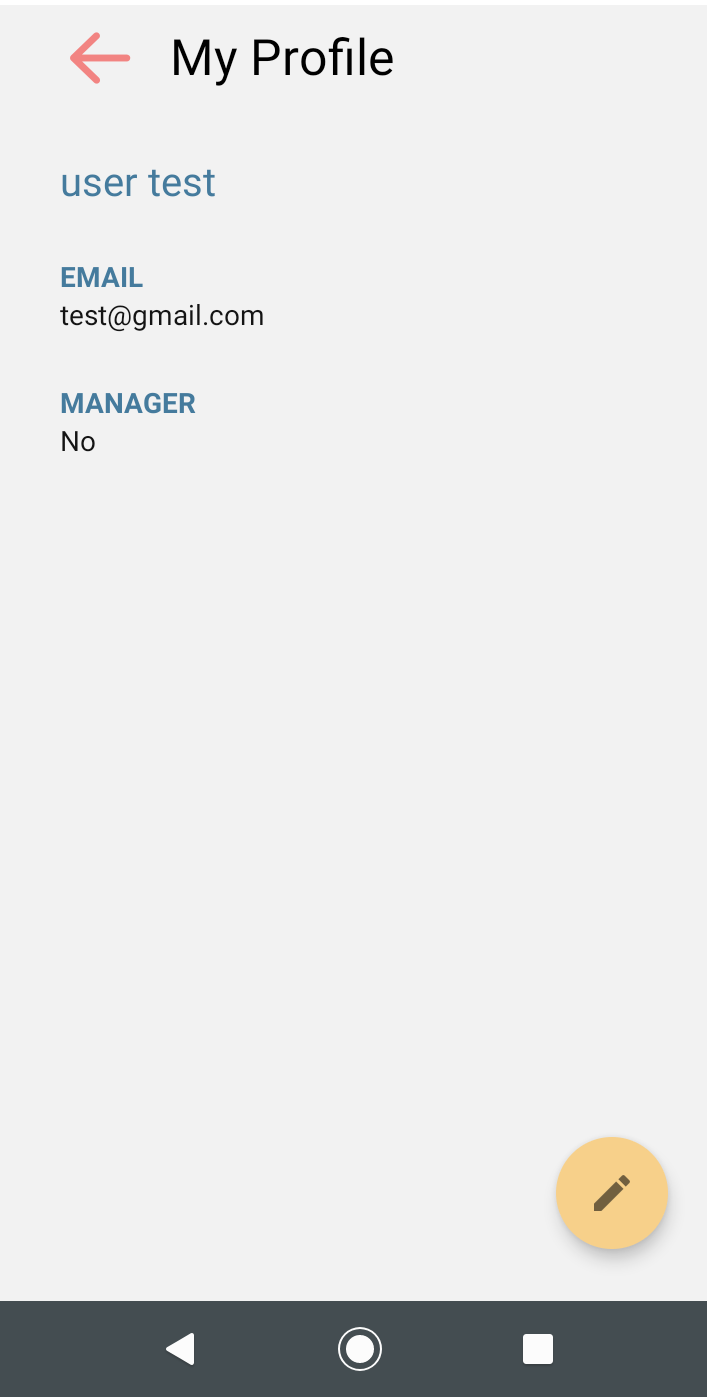
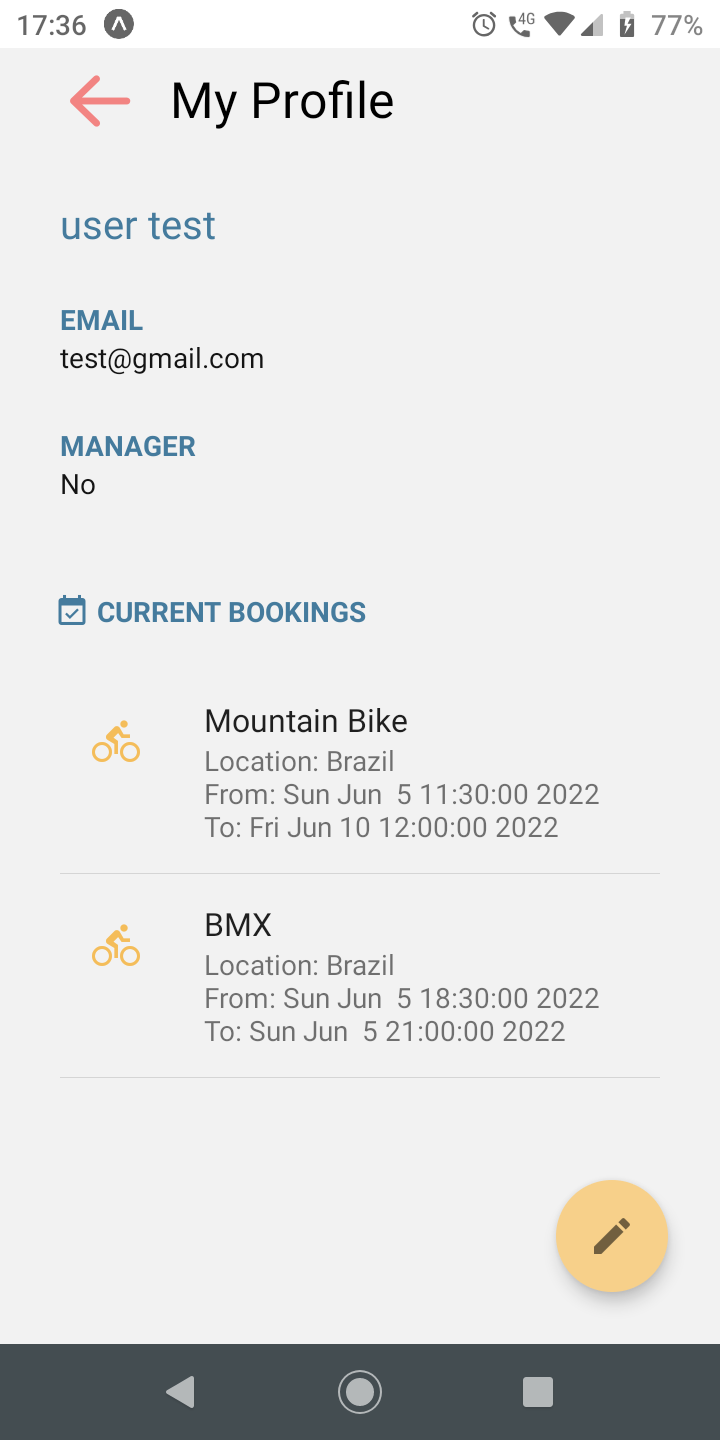
continuação da tela meu perfil - add current user bookings

diff --git a/bikeRentalMobile/screens/profile/profileScreen.tsx b/bikeRentalMobile/screens/profile/profileScreen.tsx
@@ -5,9 +5,10 @@ import { useSelector } from "react-redux";
 import Colors from "../../constants/Colors";
 import { defaultPadding } from "../../constants/Layout";
 import PageHeader from '../../common/pageHeader';
-import { FAB } from 'react-native-paper';
-import { StyleSheet } from 'react-native';
-
+import { FAB, List, Divider } from 'react-native-paper';
+import { StyleSheet, FlatList, ListRenderItem } from 'react-native';
+import { fetchUserReservations } from "../../services/api";
+import { MaterialCommunityIcons } from "@expo/vector-icons";
 
 function Perfil({ navigation }: RootStackScreenProps<"Perfil">): JSX.Element {
 
@@ -15,10 +16,45 @@ function Perfil({ navigation }: RootStackScreenProps<"Perfil">): JSX.Element {
     (state: { loggedUser: UserObject }) => state
   );
   const [user, setUser] = useState(loggedUser?.result);
+  const [userReservations, setUserReservations] = useState<IReservation[]>([]);
 
   useEffect(() => {
-    setUser(loggedUser?.result);
+    setUser(user);
+
+    if (user && user._id) {
+      fetchUserReservations(user._id).then((response) => {
+        console.log(response.data);
+        let data = response.data.filter(
+            x => new Date().getDate() >= new Date(x.startTimestamp).getDate() 
+            && new Date().getDate() <= new Date(x.endTimestamp).getDate()
+        );
+        setUserReservations(data);
+      });
+    }
+
   }, [loggedUser]);
+
+  const renderItem: ListRenderItem<IReservation> = ({ item }) => (
+    <>
+      <List.Item
+        title={item.bikeInfo.model}
+        descriptionNumberOfLines ={3}
+        description={
+        `Location: ${item.bikeInfo.location}\n` + 
+        `From: ${new Date(item.startTimestamp).toLocaleString('pt-br')}\n` + 
+        `To: ${new Date(item.endTimestamp).toLocaleString('pt-br')}`
+        }
+        left={(props) => (
+          <List.Icon
+            {...props}
+            color="#f4bd5a"
+            icon="bike"
+          />
+        )}
+      />
+    <Divider />
+    </>
+  );
 
   const handleGoToEditProfile = () => {
     navigation.navigate("EditProfile");
@@ -37,10 +73,21 @@ function Perfil({ navigation }: RootStackScreenProps<"Perfil">): JSX.Element {
       <StyledStrong>manager</StyledStrong>
       <StyledUserProp>{user.isManager ? 'Yes' : 'No'}</StyledUserProp>
 
+      <BookingsTitleContainer>
+        <MaterialCommunityIcons name="calendar-check" size={18} color="#457B9D" />
+        <StyledStrong> Current Bookings</StyledStrong>
+      </BookingsTitleContainer>
+
+      <FlatList
+        data={userReservations}
+        renderItem={renderItem}
+        keyExtractor={(reservation) => reservation._id}
+      />
+
       <FAB
-        style = {styles.fab}
-        icon = "pencil"
-        onPress= {handleGoToEditProfile}
+        style={styles.fab}
+        icon="pencil"
+        onPress={handleGoToEditProfile}
       />
 
     </StyledSelectedUser>
@@ -73,6 +120,16 @@ const StyledStrong = styled.Text`
 const StyledUserProp = styled.Text`
   color: ${Colors.dark.black};
   margin-bottom: 25px;
+`;
+
+const BookingsTitleContainer = styled.View`
+  width: 50%;
+  display: flex;
+  justify-content: center;
+  align-items: center;
+  flex-direction: row;
+  margin-top: 20px;
+  margin-bottom: 20px;
 `;
 
 const styles = StyleSheet.create({

diff --git a/docs/07-Programação de Funcionalidades.md b/docs/07-Programação de Funcionalidades.md
@@ -54,7 +54,8 @@ Exibe o menu de navegação através do qual é possível acessar as diversas fu
 
 ## Meu Perfil
 
-A página Meu Perfil apresenta dados do usuário logado como Nome e Email e informa se o perfil é do tipo 'Manager', além disso, exibe um botão que redireciona para a tela Editar Perfil.
+A página Meu Perfil apresenta dados do usuário logado como Nome e Email e informa se o perfil é do tipo 'Manager', além disso são exibidos uma lista
+das reservas ativas do usuário e um botão que redireciona para a tela Editar Perfil.
 <br>
 
 <p>
@@ -70,6 +71,5 @@ A página Meu Perfil apresenta dados do usuário logado como Nome e Email e info
 
 ### Sobre a Implementação
 Responsável: Amanda Salles Monteiro </br>
-Continuidade: Implementação da lista de reservas do usuário que deve ser exibida nesta tela
 
 <br><br>
